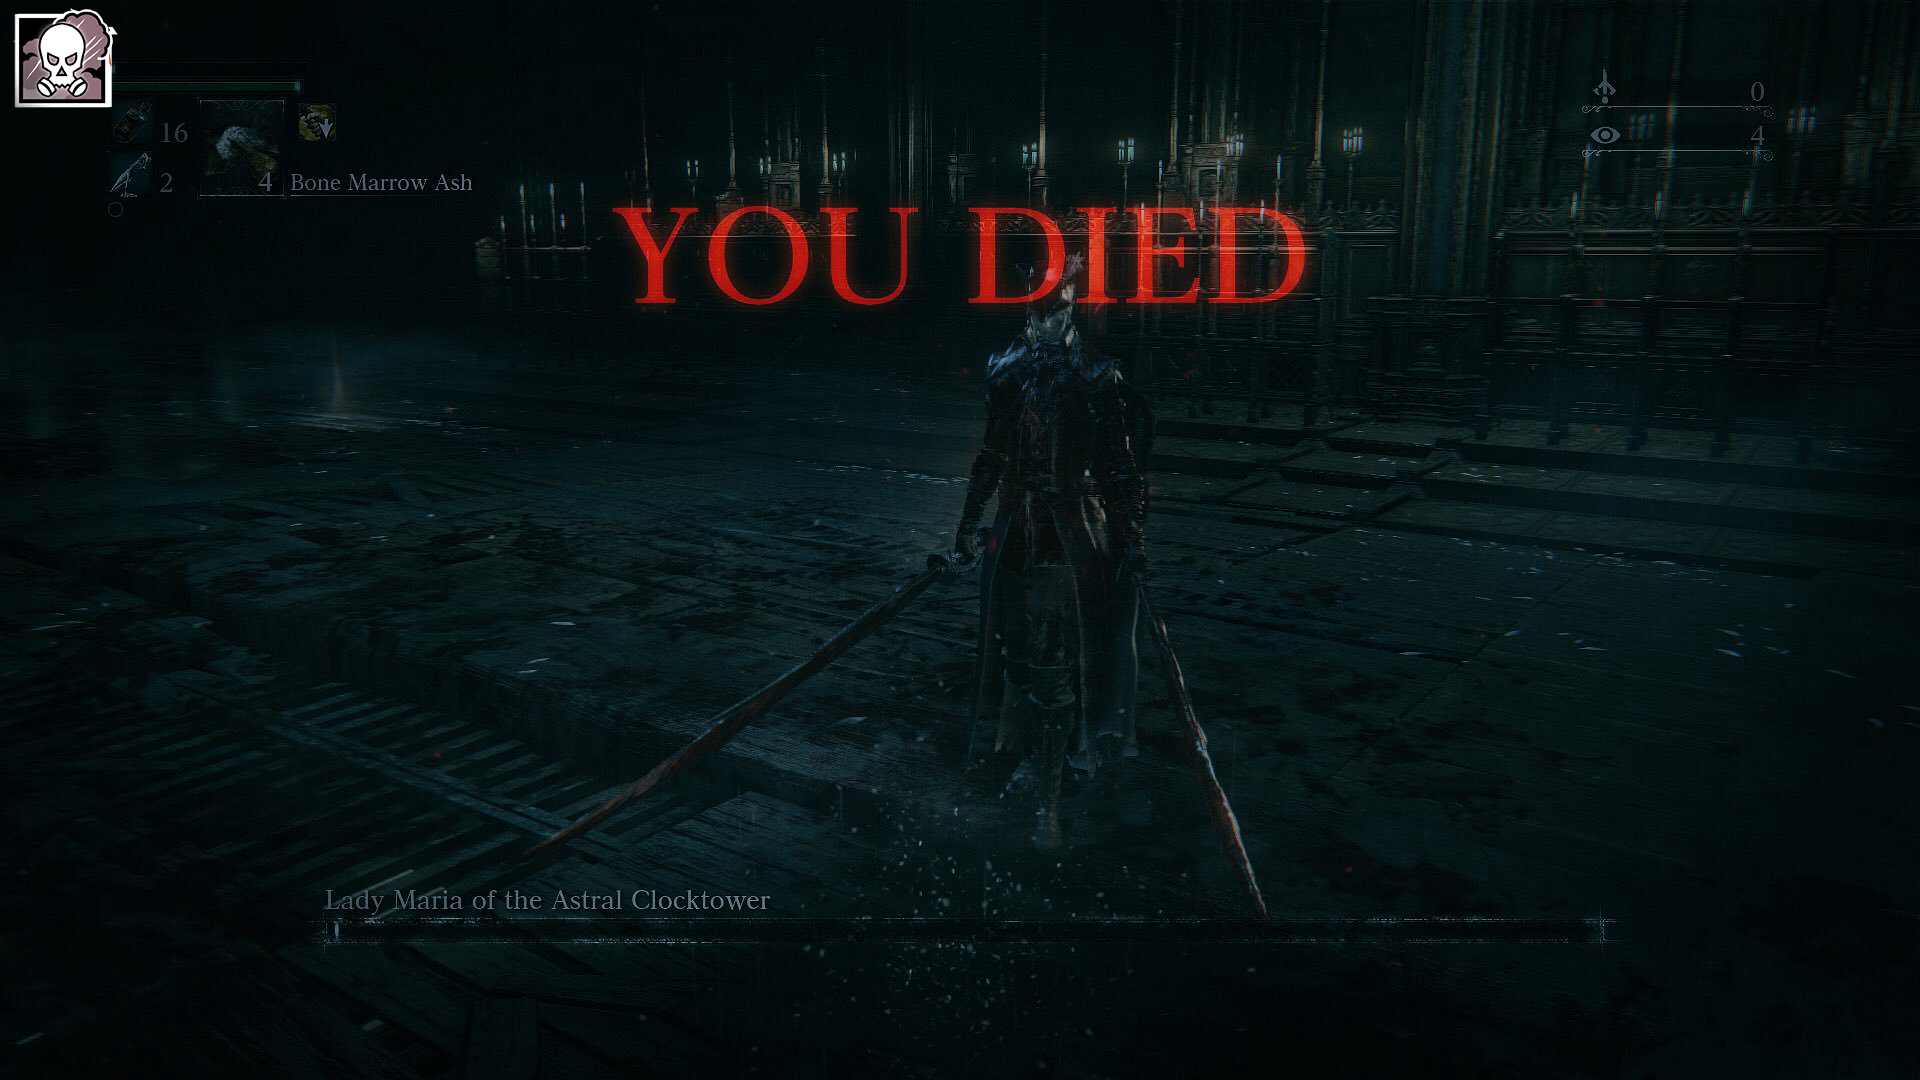
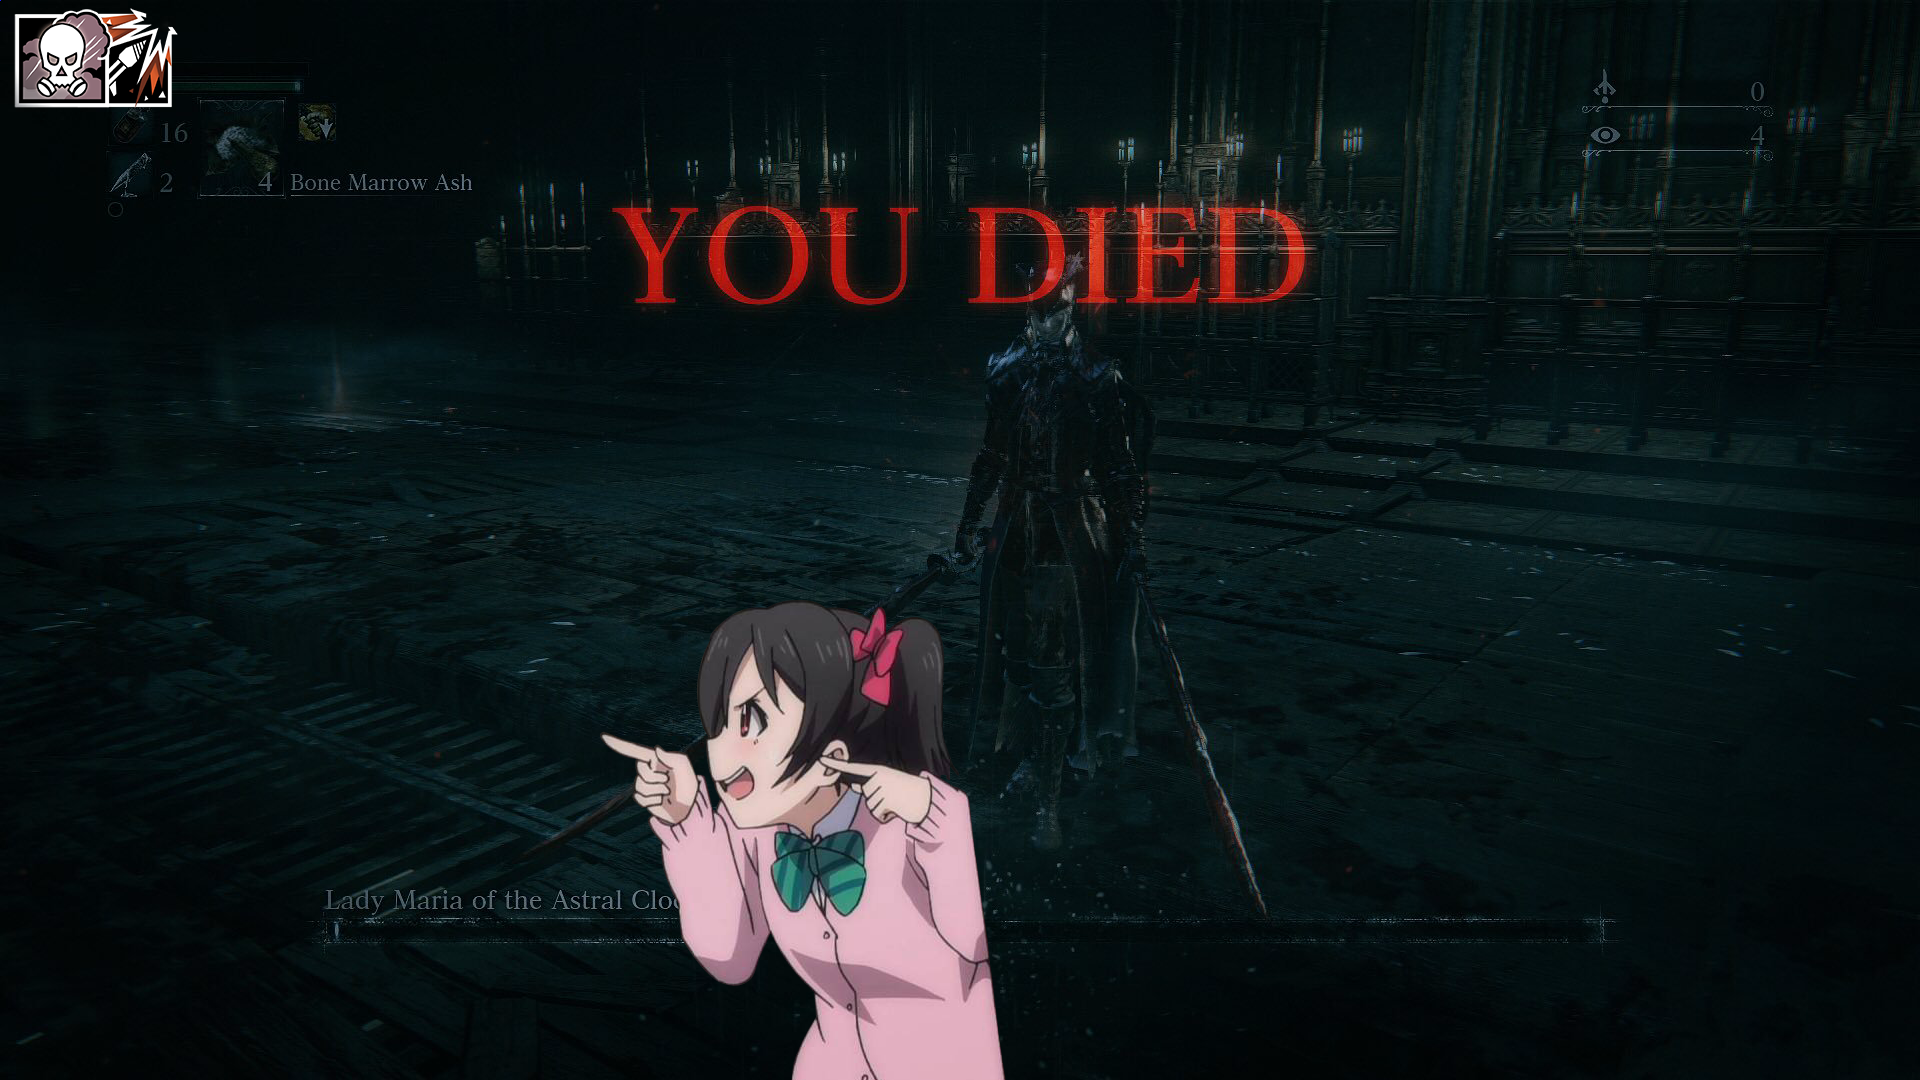
new fixes

Changed region(s): [[0.3125, 0.55, 0.5312, 1.0], [0.0312, 0.0, 0.0938, 0.1222]]

diff --git a/nico.js b/nico.js
@@ -1,8 +1,9 @@
 //Important bot configurations
 const botconfig = require("./botconfig.json");
-const Operators = require("./Operators.json");
+const Operators = require("./Ops.json");
 const TestOp = require("./TestOp.json");
 const { Client , Attachment } = require("discord.js");
+const Jimp = require('jimp');
 
 const bot = new Client({
     disableEveryone: true,
@@ -18,8 +19,7 @@ bot.login(botconfig.token);
 
 
 //Random stuff
-const VCID = "474689718425223168"
-let Jimp = require('jimp');
+
 let lol = 0;
 
 //Bot regular messages
@@ -93,16 +93,15 @@ bot.on("message", async message => {
     } }
 
 
-<<<<<<< HEAD
-
     if (cmd === prefix + "OpTest") {
-        let Op = Math.ceil(Math.random()*TestOp.length) - 1;
+        let Op = Math.ceil(Math.random()*Operators.length) - 1;
 
-        let WeaponNum = Math.ceil(Math.random()*TestOp[Op].priweap.length) - 1;
+        let WeaponNum = Math.ceil(Math.random()*Operators[Op].primaryWeapon.length) - 1;
+        let WeaponNumSec = Math.ceil(Math.random()*Operators[Op].secondaryWeapon.length) - 1;
 
 
-        let attachment = new Attachment("./Siege/Operators_icon/" + TestOp[Op].name + ".png" );
-       return message.channel.send("Your Operator is " + TestOp[Op].name + "\nAnd you loadout is: " + (TestOp[Op]).priweap[WeaponNum], attachment);
+        let attachment = new Attachment("./Siege/Operators_icon/" + Operators[Op].name + ".png" );
+       return message.channel.send("Your Operator is " + Operators[Op].name + "\nAnd you loadout is: " + (Operators[Op]).primaryWeapon[WeaponNum] + "\nAnd " + (Operators[Op]).secondaryWeapon[WeaponNumSec], attachment );
 
     }
 
@@ -126,13 +125,13 @@ bot.on("message", async message => {
 
     } }
 
-=======
+
         //Image merging testgrounds
->>>>>>> origin/master
+
     if (cmd === prefix + "imageTest") {
 
 
-        let images = [ './testImage/wallpaper.jpg','./Operators/Ash.png','./Operators/Smoke.png']
+        let images = [ './testImage/wallpaper.jpg','./Siege/Operators_icon/Ash.png','./Siege/Operators_icon/Smoke.png', './testImage/NicoPointing.png']
         let Jimps = [];
 
         for (var i = 0; i < images.length; i++) {
@@ -143,8 +142,9 @@ bot.on("message", async message => {
         Promise.all(Jimps).then(function(data){
             return Promise.all(Jimps);
         }).then(function(data) {
-            data[0].composite(data[1],0,0);
+            data[0].composite(data[1],60,0);
             data[0].composite(data[2],0,0);
+            data[0].composite(data[3],600,600);
 
             data[0].write('final-images/test.png', function() {
                 console.log("wrote the image");
